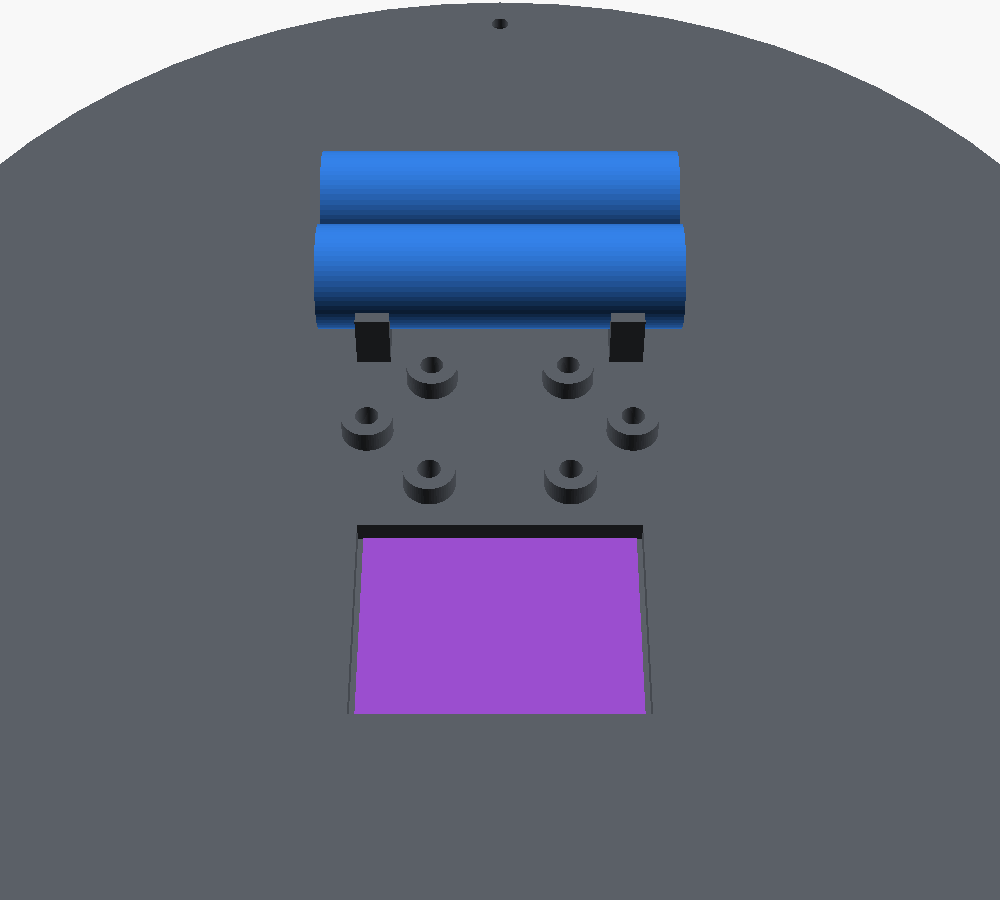
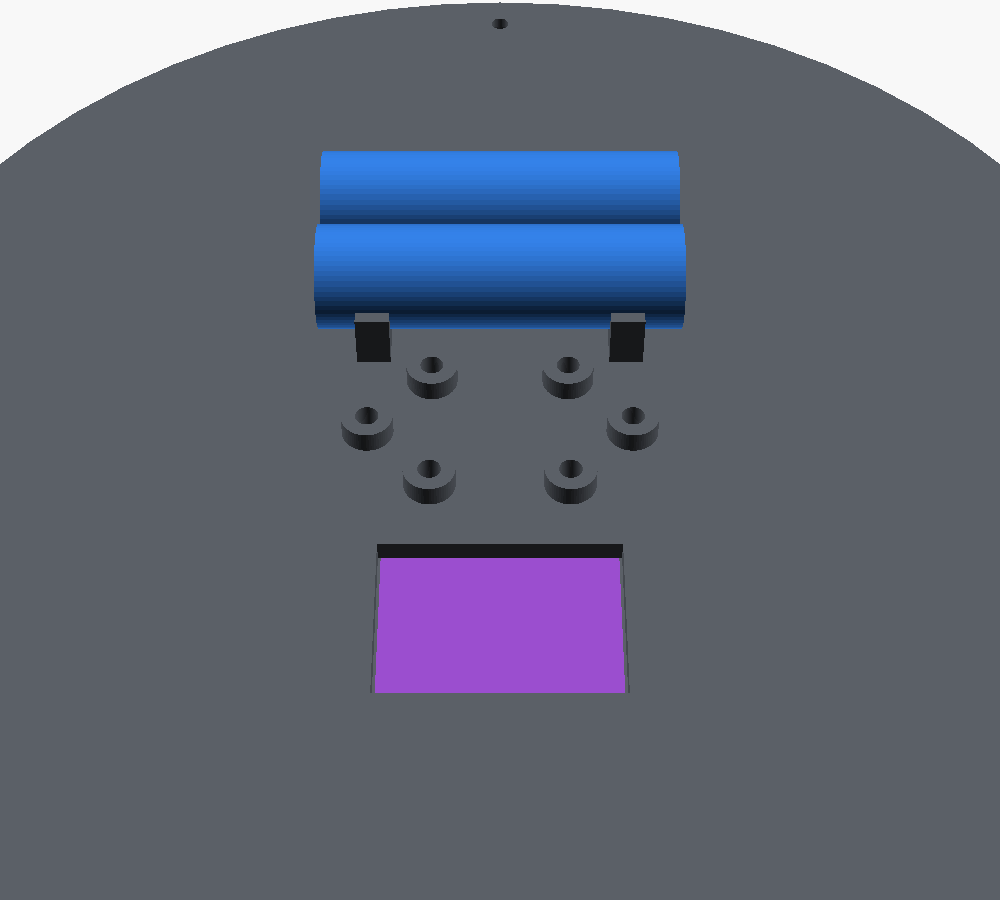
docs+cad: HomePod mini i indkøbslisten, svar på brugerens noter, Qi-lomme 41×30
- Indkøbsliste: ny "0. Fælles" med HomePod mini (~800 DKK skøn; home hub
  kræves for Matter i Apple Home). Brugerens "Fra Bruger"-noter bevaret;
  ESP32-H2-Zero som 3-pak (~€20, dækker pot/), Pololu EU-forhandlere,
  DRV8871-advarsel (1,5A 2-kanal = typisk DRV8833/MX1508, max ~10V)
- Qi-lomme tilpasset det fundne modul (spole 40×29mm) i både orkide og
  pot/ → 17mm til pumpe, 20mm til celler (før 13/15)
- Orkide 1618 DKK, pot/ 1242 DKK (summer krydstjekket)

Changed region(s): [[0.341, 0.56, 0.651, 0.8089]]

diff --git a/docs/shopping-list.md b/docs/shopping-list.md
@@ -8,10 +8,12 @@ vejledende BOM-estimater i DKK, uden fragt og told. Detaljer:
 
 | | Orkide | pot/ (Monstera) |
 |---|---:|---:|
-| Bestil | **1396** | **1245** |
+| Bestil | **1456** | **1200** |
 | Kun til stripboard-prototypen | 162 | 42 |
-| **I alt** | **1558** | **1287** |
+| **I alt** | **1618** | **1242** |
 | Valgfrit (ikke med) | 40 | 220 |
+
+Plus én gang til begge: **HomePod mini ~800 DKK** (afsnit 0).
 
 Haves allerede: 5V USB-C-lader, Apple MagSafe 25W (orkidens ladebase er tegnet til den).
 Forudsat i skuffen: kabelstrips ≤3,6mm (2 til pumpe-vuggen), lim / tynd dobbeltklæbende tape.
@@ -21,6 +23,19 @@ færdigt SMD-PCB loddes de i SMD eller følger med samleordren (fx JLCPCB), så
 sektionen er kun nødvendig, hvis prototypen bygges på stripboard først.
 Modulerne (boost, lader, H-bro, Qi) kan sidde på headers på et færdigt PCB; MCU'en
 bliver dér et ESP32-H2-MINI-1-H4S-modul (samme chip som Zero-boardet, ADR 014).
+
+---
+
+## 0. Fælles — Apple home hub (én gang)
+
+Apple Home kræver en home hub (HomePod mini, HomePod eller Apple TV) for
+at tilføje Matter-enheder; HomePod mini er også Thread border router
+([Apple](https://support.apple.com/102557)). Tredjeparts border routere
+(fx GL.iNet GL-S20) kan ikke være home hub.
+
+| ✓ | Del | Antal | Stk. | I alt | Butik | Note |
+|---|---|---:|---:|---:|---|---|
+| [ ] | Apple HomePod mini | 1 | 800 | 800 | apple.com/dk / forhandlere | Pris = skøn. En "HomePod mini 2" er rygtet til oktober 2026 — tjek før køb |
 
 ---
 
@@ -41,16 +56,16 @@ bestil først) · akvariebutik (sump-si) · byggemarked (bolte)
 
 ### Moduler og MCU
 
-| ✓   | Del                                               | Antal | Stk. |   I alt | Butik                   | Note                                                 |
-| --- | ------------------------------------------------- | ----: | ---: | ------: | ----------------------- | ---------------------------------------------------- |
-| [ ] | Waveshare ESP32-H2-Zero (4 MB, ADR 014)           |     2 |   45 |      90 | Waveshare / The Pi Hut  | 1 + 1 reserve. Pris = skøn. Aflod RGB-LED'en         |
-| [ ] | Pololu U3V40F12 boost 12V (#4016)                 |     1 |  110 |     110 | The Pi Hut / RobotShop  |                                                      |
-| [ ] | TP4056 USB-C-modul m. beskyttelse (DW01A+FS8205A) |     5 |    8 |      40 | AliExpress              | Dækker også pot/ + reserver. Tjek 5,1kΩ CC-modstande |
-| [ ] | Modstand 2,0kΩ SMD 1% (TP4056 R_PROG), pakke      |     1 |    5 |       5 | LCSC / Conrad           | Tjek R3's størrelse (0603/0805)                      |
-| [ ] | Qi-modtager 5V ≥600 mA (spole ~46×36mm)           |     1 |   70 |      70 | The Pi Hut / AliExpress |                                                      |
-| [ ] | DRV8871 H-bro-breakout (Adafruit 3190)            |     1 |   60 |      60 | The Pi Hut / Digi-Key   |                                                      |
-| [ ] | AHT20-breakout (I2C 0x38)                         |     1 |   25 |      25 | AliExpress / Adafruit   |                                                      |
-|     | **Sum**                                           |       |      | **400** |                         |                                                      |
+| ✓   | Del                                               | Antal | Stk. |   I alt | Butik                   | Note                                                 | **Fra Bruger**                                                                                                                                       |
+| --- | ------------------------------------------------- | ----: | ---: | ------: | ----------------------- | ---------------------------------------------------- | ---------------------------------------------------------------------------------------------------------------------------------------------------- |
+| [ ] | ESP32-H2-Zero 3-pak (Ulegqin — Waveshare-kopi) | 1 | 150 | 150 | AliExpress / Amazon | ≈ €20; dækker pot/ + reserve. Tjek ESP32-H2FH4S (4 MB) + Waveshare-pinout. Aflod RGB-LED | Fundet, brand Ulegqin? 3 for 20 Euro |
+| [ ] | Pololu U3V40F12 boost 12V (#4016) | 1 | 110 | 110 | Eckstein / Botland / TME / EXP-Tech | Pololus EU-forhandlere; ~$10 hos Pololu | Ikke fundet endnu |
+| [ ] | TP4056 USB-C-modul m. beskyttelse (DW01A+FS8205A) | 5 | 8 | 40 | AliExpress | Dækker pot/ + reserver. CC: se efter to modstande mærket 512/5K1 ved USB-C | Kan ikke finde hvor jeg skal tjekke CC-modstande, giver det mening at opgradere til BQ2606 (4.5-12V, 3A) eller en opgraderet TC4056 med (4-8V, 1.2A) |
+| [ ] | SMD-modstandssæt (skal indeholde 2,0kΩ til R_PROG) | 1 | 5 | 5 | AliExpress / LCSC | Tjek at 2,0k (202/2001) er med og pad-størrelsen på R3 | Fundet, et sæt med 1500 SMD-res med 60 forskellige værdier, klart overkill men så har jeg til fremtidige projekter også |
+| [ ] | Qi-modtager 5V 1A (spole 40×29mm) | 1 | 70 | 70 | AliExpress | Spolen i bay-lommen (nu 41×30); modul-printet på elektronik-hylden | Fundet, 5V 1A, chip er 33x16x1.1mm og spole er 40x29x0.3mm |
+| [ ] | DRV8871 H-bro-breakout, ÉN kanal, 6,5-45V | 1 | 60 | 60 | AliExpress / Adafruit | OBS: "1,5A 2-kanal" er typisk DRV8833/MX1508 (max ~10V) — virker ikke ved 12V | Fundet, 1.5A 2 Channel H-Bridge PWM |
+| [ ] | AHT20-breakout (I2C 0x38) | 1 | 25 | 25 | AliExpress / Adafruit | Evt. SHT41 i stedet — se svar | Fundet, 15.11x10.41mm, Hvad er forskellen på denne og så f.eks. SHT45/SHT41? |
+|     | **Sum**                                           |       |      | **460** |                         |                                                      |                                                                                                                                                      |
 
 ### Pumpe og sensorer
 
@@ -134,12 +149,12 @@ AliExpress · Berrybase/Eckstein (Grove) · Conrad (glands, kabel) · lokalt
 
 | ✓ | Del | Antal | Stk. | I alt | Butik | Note |
 |---|---|---:|---:|---:|---|---|
-| [ ] | Waveshare ESP32-H2-Zero (4 MB) | 1 | 45 | 45 | Waveshare / The Pi Hut | Eller brug orkide-ordrens reserve |
+| [ ] | ESP32-H2-Zero | 1 | — | — | — | fra orkide-ordren (3-pak) |
 | [ ] | Pololu U3V40F12 boost 12V (#4016) | 1 | 110 | 110 | The Pi Hut / RobotShop |  |
 | [ ] | TP4056-modul + 2,0kΩ R_PROG | 1 | — | — | — | fra orkide-ordren |
 | [ ] | Qi-modtager 5V ≥600 mA | 1 | 70 | 70 | The Pi Hut / AliExpress | Kun uden load cell — ellers spring over |
 | [ ] | AHT20-breakout | 1 | 25 | 25 | AliExpress / Adafruit |  |
-| | **Sum** | | | **250** | | |
+| | **Sum** | | | **205** | | |
 
 ### Pumpe og sensorer
 

diff --git a/docs/decisions/013-battery-1s2p.md b/docs/decisions/013-battery-1s2p.md
@@ -117,11 +117,11 @@ tårnet på en lader.
     går udvendigt ned til et Ø14-hul i ebase (split-grommet).
   - Orkide: egen tør skakt i tanken ved 60°, op gennem ring-låget. Et stik
     der hang ned under låget ville nå vandet (kun ~15mm luft over max).
-- **Qi i bunden:** modtager-spole (~46×36mm) i en lomme med 1,2mm gulv;
+- **Qi i bunden:** modtager-spole (40×29mm, fundet modul 5V 1A) i en lomme med 1,2mm gulv;
   output via Schottky (1N5817) til TP4056 IN+, så begge kilder kan sidde
   samtidig.
   - Orkide: i bay-fodens gulv, off-center mod +y (pumpen fylder midten af
-    den Ø152 fod, ADR 012) — ≥13mm til pumpe og celler. Ladebasen har en
+    den Ø152 fod, ADR 012) — ≥17mm til pumpe og celler. Ladebasen har en
     nøgle, så spolen altid står over laderen.
   - pot/: på -y i ebase-lid'et (pumpen sidder i midten) → laderen skal
     placeres under den side. Passer i M/L/CUSTOM, ikke S. Kan ikke bruges

diff --git a/docs/decisions/012-orchid-v1-nursery-pot-ring-tank.md b/docs/decisions/012-orchid-v1-nursery-pot-ring-tank.md
@@ -44,7 +44,7 @@ potten til både lager og elektronik.
   bund; en 45°-skulder går fri af afsatsen. Stod tårnet på afsatsen, ville
   pottens top stikke 3mm op over kanten. Foden centrerer også tårnet.
 - **Layout i foden:** pumpen i midten, en 18650 på hver side, Qi-spolen
-  off-center mod +y (≥13mm til metal). Med spolen i midten ville pumpen
+  off-center mod +y (≥17mm til metal). Med spolen i midten ville pumpen
   række til r≈100mm — foden har 73,5 indvendigt. Derfor har ladebasen en
   nøgle, der låser tårnets rotation.
 - **Selvnivellerende soak:** skålens kant (68mm over pottens bund ≈ 62% af
